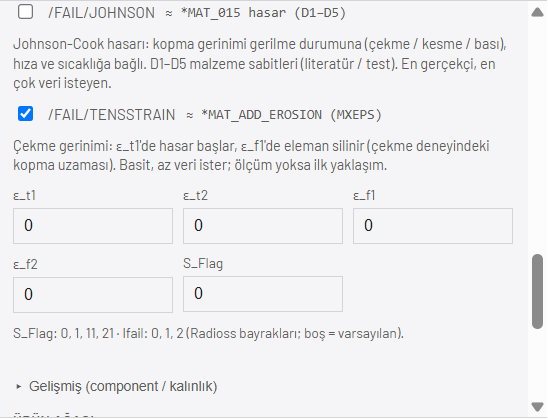
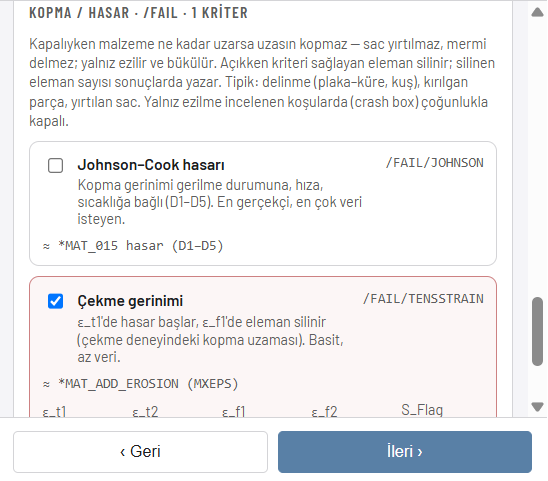
style(ui): crash malzeme davranışı (LAW2) ve /FAIL Uzman düzeninde — Akma ve pekleşme / Hız etkisi / Sıcaklık / Basit kopma bölümleri, formüller, birimli hizalı alanlar, hız-sıcaklık artık gizli değil; /FAIL kart kutuları; Belgeler görselleri güncellendi

diff --git a/frontend/src/components/CrashMaterialCard.tsx b/frontend/src/components/CrashMaterialCard.tsx
@@ -237,19 +237,30 @@ export default function CrashMaterialCard({
       <input value={value[key]} disabled={disabled} onChange={(e) => set({ [key]: e.target.value })} />
     </label>
   );
-  const failField = <R extends FailJohnsonRow | FailTensRow>(
+  /** Uzman düzeni alanı: kısa etiket + birim; erişilebilir ad eski etiket (testler / ekran okuyucu). */
+  const xf = (key: ScalarKey, aria: string, label: string, unit?: string, placeholder = "boş") => (
+    <label className="crash-expert-field" key={key}>
+      <span>{label}</span>
+      <span className="crash-card-input">
+        <input aria-label={aria} value={value[key]} placeholder={placeholder} disabled={disabled} onChange={(e) => set({ [key]: e.target.value })} />
+        {unit && <span className="crash-card-unit">{unit}</span>}
+      </span>
+    </label>
+  );
+  const xfail = <R extends FailJohnsonRow | FailTensRow>(
     row: R,
     key: keyof R & string,
+    aria: string,
     label: string,
     apply: (next: R) => void,
+    unit?: string,
   ) => (
-    <label className="mesh-field">
+    <label className="crash-expert-field" key={key}>
       <span>{label}</span>
-      <input
-        value={row[key] as string}
-        disabled={disabled}
-        onChange={(e) => apply({ ...row, [key]: e.target.value })}
-      />
+      <span className="crash-card-input">
+        <input aria-label={aria} value={row[key] as string} placeholder="boş" disabled={disabled} onChange={(e) => apply({ ...row, [key]: e.target.value })} />
+        {unit && <span className="crash-card-unit">{unit}</span>}
+      </span>
     </label>
   );
   const law = value.law;
@@ -271,39 +282,53 @@ export default function CrashMaterialCard({
       <KwRef card={law === "elastic" ? "/MAT/LAW1" : law === "plastic" ? "/MAT/LAW2" : "/MAT/LAW36"} />
 
       {law === "plastic" && (
-        <>
-          <div className="mesh-grid">
-            {field("sigmaY", "σy (Pa) — boşsa atanan malzeme")}
-            {field("hardenB", "LAW2 b (MPa)")}
-            {field("hardenN", "LAW2 n")}
-            {field("epsPMax", "EPS_p_max")}
-            {field("sigMax0", "SIG_max0 (MPa)")}
-          </div>
+        <div className="crash-law-sections">
+          <p className="crash-expert-title">Akma ve pekleşme <span className="crash-formula">σ = a + b·εₚⁿ</span></p>
           <p className="crash-behavior-hint">
-            σy: akma gerilmesi (boşsa kütüphane malzemesinin Rp0.2'si). b, n: pekleşme — b büyüdükçe
-            ezildikçe daha çok sertleşir. EPS_p_max: bu plastik gerinime ulaşan eleman silinir (boş = kapalı;
-            basit bir kopma sınırı). SIG_max0: gerilme tavanı (boş = yok).
+            a = akma (boşsa kütüphane malzemesinin Rp0.2'si); b, n pekleşme — b büyüdükçe ezildikçe daha çok
+            sertleşir. SIG_max0: gerilme tavanı (boş = yok).
           </p>
-          <details className="crash-mat-section">
-            <summary>Hız / sıcaklık etkisi — Johnson-Cook (boş = yok)</summary>
-            <p className="crash-behavior-hint">
-              Metaller hızlı yüklemede sertleşir: c hız katsayısı, ε̇₀ referans hız; m ve sıcaklıklar ısınma
-              ile yumuşamayı verir. Değerler malzemeye özgü, literatürden (ör. Johnson-Cook tabloları).
-            </p>
-            <div className="mesh-grid">
-              {field("jcC", "c")}
-              {field("jcEps0", "ε̇₀ (1/s)")}
-              {field("jcIcc", "ICC")}
-              {field("jcFsmooth", "Fsmooth")}
-              {field("jcFcut", "F_cut (Hz)")}
-              {field("jcChard", "Chard")}
-              {field("jcM", "m")}
-              {field("jcTmelt", "T_melt (K)")}
-              {field("jcRhoCp", "ρCp (J/m³K)")}
-              {field("jcTr", "T_r (K)")}
-            </div>
-          </details>
-        </>
+          <div className="crash-expert-grid cols-2">
+            {xf("sigmaY", "σy (Pa) — boşsa atanan malzeme", "a · akma σy", "Pa", "kütüphane")}
+            {xf("sigMax0", "SIG_max0 (MPa)", "SIG_max0 · tavan", "MPa")}
+            {xf("hardenB", "LAW2 b (MPa)", "b · pekleşme", "MPa")}
+            {xf("hardenN", "LAW2 n", "n · üs")}
+          </div>
+
+          <p className="crash-expert-title">Hız etkisi <span className="crash-formula">σ·(1 + c·ln(ε̇/ε̇₀))</span></p>
+          <p className="crash-behavior-hint">
+            Metaller hızlı yüklemede sertleşir: σ × (1 + c·ln(ε̇/ε̇₀)). c = 0 → hız etkisi yok. Fsmooth / F_cut
+            şekil değiştirme hızını süzer.
+          </p>
+          <div className="crash-expert-grid cols-3">
+            {xf("jcC", "c", "c · hız katsayısı")}
+            {xf("jcEps0", "ε̇₀ (1/s)", "ε̇₀ · referans", "1/s")}
+            {xf("jcIcc", "ICC", "ICC")}
+            {xf("jcFsmooth", "Fsmooth", "Fsmooth")}
+            {xf("jcFcut", "F_cut (Hz)", "F_cut", "Hz")}
+            {xf("jcChard", "Chard", "Chard")}
+          </div>
+
+          <p className="crash-expert-title">Sıcaklık etkisi</p>
+          <p className="crash-behavior-hint">
+            Plastik iş ısıya döner, malzeme yumuşar: m üssü, erime ve referans sıcaklığı, ρ·Cp. Boş = sıcaklık
+            etkisi yok.
+          </p>
+          <div className="crash-expert-grid cols-2">
+            {xf("jcM", "m", "m · yumuşama üssü")}
+            {xf("jcTmelt", "T_melt (K)", "T_melt · erime", "K")}
+            {xf("jcTr", "T_r (K)", "T_r · referans", "K")}
+            {xf("jcRhoCp", "ρCp (J/m³K)", "ρ·Cp", "J/m³K")}
+          </div>
+
+          <p className="crash-expert-title">Basit kopma sınırı</p>
+          <p className="crash-behavior-hint">
+            Bu plastik gerinime ulaşan eleman silinir (boş = kapalı). Daha ayrıntılı kopma için aşağıdaki /FAIL kartları.
+          </p>
+          <div className="crash-expert-grid cols-2">
+            {xf("epsPMax", "EPS_p_max", "EPS_p_max · kopma gerinimi")}
+          </div>
+        </div>
       )}
 
       {law === "tabulated" && (
@@ -386,74 +411,76 @@ export default function CrashMaterialCard({
         </>
       )}
 
-      <details className="crash-mat-section" open={failCount > 0 || undefined}>
-        <summary>
-          Kopma / hasar — /FAIL{failCount > 0 ? ` · ${failCount} kriter` : " · kapalı"}
-        </summary>
+      <div className="crash-law-sections">
+        <p className="crash-expert-title">
+          Kopma / hasar · /FAIL{failCount > 0 ? ` · ${failCount} kriter` : " · kapalı"}
+        </p>
         <p className="crash-behavior-hint" data-testid="crash-fail-intro">
-          Kapalıyken malzeme ne kadar uzarsa uzasın kopmaz — sac yırtılmaz, cam kırılmaz, mermi delmez;
-          yalnız ezilir ve bükülür. Açıkken seçilen kriter sağlanan eleman modelden silinir: yırtılma,
-          delinme, kırılma görünür, silinen eleman sayısı sonuçlarda yazar.
+          Kapalıyken malzeme ne kadar uzarsa uzasın kopmaz — sac yırtılmaz, mermi delmez; yalnız ezilir ve
+          bükülür. Açıkken kriteri sağlayan eleman silinir; silinen eleman sayısı sonuçlarda yazar. Tipik:
+          delinme (plaka–küre, kuş), kırılgan parça, yırtılan sac. Yalnız ezilme incelenen koşularda (crash box)
+          çoğunlukla kapalı.
         </p>
-        <p className="crash-behavior-hint">
-          Tipik kullanım: delinme / penetrasyon (plaka–küre, mermi, kuş çarpması), kırılgan parça (cam,
-          döküm), yırtılan sac, kopan bağlantı. Yalnız ezilme / katlanma incelenen koşularda (ör. crash
-          box) çoğunlukla kapalı tutulur.
-        </p>
-        <label className="material-check">
-          <input
-            type="checkbox"
-            checked={j != null}
-            disabled={disabled}
-            onChange={(e) => set({ failJohnson: e.target.checked ? { ...JOHNSON_DEFAULT } : null })}
-          />
-          /FAIL/JOHNSON
+        <div className={j ? "crash-fail-tile active" : "crash-fail-tile"}>
+          <label className="crash-fail-head">
+            <input
+              type="checkbox"
+              aria-label="/FAIL/JOHNSON"
+              checked={j != null}
+              disabled={disabled}
+              onChange={(e) => set({ failJohnson: e.target.checked ? { ...JOHNSON_DEFAULT } : null })}
+            />
+            <span className="crash-fail-text">
+              <strong>Johnson–Cook hasarı</strong>
+              <span>Kopma gerinimi gerilme durumuna, hıza, sıcaklığa bağlı (D1–D5). En gerçekçi, en çok veri isteyen.</span>
+            </span>
+            <code>/FAIL/JOHNSON</code>
+          </label>
           <KwRef card="/FAIL/JOHNSON" />
-        </label>
-        <p className="crash-behavior-hint">
-          Johnson-Cook hasarı: kopma gerinimi gerilme durumuna (çekme / kesme / bası), hıza ve sıcaklığa
-          bağlı. D1–D5 malzeme sabitleri (literatür / test). En gerçekçi, en çok veri isteyen.
-        </p>
-        {j && (
-          <div className="mesh-grid">
-            {(["d1", "d2", "d3", "d4", "d5"] as const).map((k) => (
-              <Fragment key={k}>
-                {failField(j, k, k.toUpperCase(), (n) => set({ failJohnson: n }))}
-              </Fragment>
-            ))}
-            {failField(j, "eps0", "ε̇₀ (1/s)", (n) => set({ failJohnson: n }))}
-            {failField(j, "ifailSh", "Ifail_sh", (n) => set({ failJohnson: n }))}
-            {failField(j, "ifailSo", "Ifail_so", (n) => set({ failJohnson: n }))}
-            {failField(j, "dadv", "Dadv", (n) => set({ failJohnson: n }))}
-          </div>
-        )}
-        <label className="material-check">
-          <input
-            type="checkbox"
-            checked={t != null}
-            disabled={disabled}
-            onChange={(e) => set({ failTens: e.target.checked ? { ...TENS_DEFAULT } : null })}
-          />
-          /FAIL/TENSSTRAIN
+          {j && (
+            <div className="crash-expert-grid cols-5">
+              {(["d1", "d2", "d3", "d4", "d5"] as const).map((k) => (
+                <Fragment key={k}>{xfail(j, k, k.toUpperCase(), k.toUpperCase(), (n) => set({ failJohnson: n }))}</Fragment>
+              ))}
+            </div>
+          )}
+          {j && (
+            <div className="crash-expert-grid cols-4">
+              {xfail(j, "eps0", "ε̇₀ (1/s)", "ε̇₀", (n) => set({ failJohnson: n }), "1/s")}
+              {xfail(j, "ifailSh", "Ifail_sh", "Ifail_sh", (n) => set({ failJohnson: n }))}
+              {xfail(j, "ifailSo", "Ifail_so", "Ifail_so", (n) => set({ failJohnson: n }))}
+              {xfail(j, "dadv", "Dadv", "Dadv", (n) => set({ failJohnson: n }))}
+            </div>
+          )}
+        </div>
+        <div className={t ? "crash-fail-tile active" : "crash-fail-tile"}>
+          <label className="crash-fail-head">
+            <input
+              type="checkbox"
+              aria-label="/FAIL/TENSSTRAIN"
+              checked={t != null}
+              disabled={disabled}
+              onChange={(e) => set({ failTens: e.target.checked ? { ...TENS_DEFAULT } : null })}
+            />
+            <span className="crash-fail-text">
+              <strong>Çekme gerinimi</strong>
+              <span>ε_t1'de hasar başlar, ε_f1'de eleman silinir (çekme deneyindeki kopma uzaması). Basit, az veri.</span>
+            </span>
+            <code>/FAIL/TENSSTRAIN</code>
+          </label>
           <KwRef card="/FAIL/TENSSTRAIN" />
-        </label>
-        <p className="crash-behavior-hint">
-          Çekme gerinimi: ε_t1'de hasar başlar, ε_f1'de eleman silinir (çekme deneyindeki kopma uzaması).
-          Basit, az veri ister; ölçüm yoksa ilk yaklaşım.
-        </p>
-        {t && (
-          <div className="mesh-grid">
-            {failField(t, "t1", "ε_t1", (n) => set({ failTens: n }))}
-            {failField(t, "t2", "ε_t2", (n) => set({ failTens: n }))}
-            {failField(t, "f1", "ε_f1", (n) => set({ failTens: n }))}
-            {failField(t, "f2", "ε_f2", (n) => set({ failTens: n }))}
-            {failField(t, "sflag", "S_Flag", (n) => set({ failTens: n }))}
-          </div>
-        )}
-        <p className="material-assign-hint">
-          S_Flag: 0, 1, 11, 21 · Ifail: 0, 1, 2 (Radioss bayrakları; boş = varsayılan).
-        </p>
-      </details>
+          {t && (
+            <div className="crash-expert-grid cols-5">
+              {xfail(t, "t1", "ε_t1", "ε_t1", (n) => set({ failTens: n }))}
+              {xfail(t, "t2", "ε_t2", "ε_t2", (n) => set({ failTens: n }))}
+              {xfail(t, "f1", "ε_f1", "ε_f1", (n) => set({ failTens: n }))}
+              {xfail(t, "f2", "ε_f2", "ε_f2", (n) => set({ failTens: n }))}
+              {xfail(t, "sflag", "S_Flag", "S_Flag", (n) => set({ failTens: n }))}
+            </div>
+          )}
+        </div>
+        <p className="material-assign-hint">S_Flag: 0, 1, 11, 21 · Ifail: 0, 1, 2 (Radioss bayrakları; boş = varsayılan).</p>
+      </div>
     </div>
   );
 }

diff --git a/frontend/src/index.css b/frontend/src/index.css
@@ -8251,3 +8251,83 @@ p {
   border: 1px solid var(--border);
   border-radius: 6px;
 }
+
+/* LAW2 / FAIL — Uzman düzeni */
+.crash-law-sections {
+  display: flex;
+  flex-direction: column;
+  gap: 8px;
+  margin-top: 6px;
+}
+
+.crash-expert-grid.cols-5 {
+  grid-template-columns: repeat(5, minmax(0, 1fr));
+}
+
+.crash-fail-tile {
+  display: flex;
+  flex-direction: column;
+  gap: 8px;
+  padding: 10px;
+  background: var(--surface);
+  border: 1px solid var(--border);
+  border-radius: 8px;
+}
+
+.crash-fail-tile.active {
+  border: 1.5px solid color-mix(in srgb, #c94a4a 60%, var(--border));
+  background: color-mix(in srgb, #c94a4a 5%, var(--surface));
+}
+
+.crash-fail-head {
+  display: flex;
+  align-items: flex-start;
+  gap: 8px;
+  cursor: pointer;
+}
+
+.crash-fail-head input {
+  margin-top: 3px;
+}
+
+.crash-fail-text {
+  display: flex;
+  flex: 1;
+  flex-direction: column;
+  gap: 2px;
+  font-size: 12.5px;
+}
+
+.crash-fail-text span {
+  font-size: 11.5px;
+  color: var(--muted);
+}
+
+.crash-fail-head code {
+  font-size: 11px;
+  color: var(--muted);
+}
+
+.crash-formula {
+  margin-left: 6px;
+  font-family: "IBM Plex Mono", ui-monospace, monospace;
+  font-size: 11.5px;
+  font-weight: 400;
+  letter-spacing: 0;
+  text-transform: none;
+}
+
+.crash-expert-field .crash-card-input {
+  height: 34px;
+  min-width: 0;
+}
+
+.crash-expert-field .crash-card-input input {
+  flex: 1;
+  min-width: 0;
+  height: 100%;
+  padding: 0 8px;
+  background: none;
+  border: none;
+  border-radius: 6px;
+}

diff --git a/frontend/src/components/CrashMaterialSection.tsx b/frontend/src/components/CrashMaterialSection.tsx
@@ -39,13 +39,17 @@ export default function CrashMaterialSection({
 }) {
   return (
     <section className="crash-mat-section-wrap" aria-label="Crash malzeme modeli">
-      <p className="material-assignments-title">
-        {Object.keys(partCards).length > 0 ? "Crash malzeme modeli — ortak" : "Crash malzeme modeli"}
-      </p>
-      <p className="crash-behavior-hint">
-        Yukarıdaki kütüphane malzemesi E, ν, ρ ve akma gerilmesini verir. Burada çarpışmada malzemenin
-        nasıl davranacağı seçilir: akınca ne olur, kopar mı.
-      </p>
+      {!hideToggle && (
+        <>
+        <p className="material-assignments-title">
+          {Object.keys(partCards).length > 0 ? "Crash malzeme modeli — ortak" : "Crash malzeme modeli"}
+        </p>
+        <p className="crash-behavior-hint">
+          Yukarıdaki kütüphane malzemesi E, ν, ρ ve akma gerilmesini verir. Burada çarpışmada malzemenin
+          nasıl davranacağı seçilir: akınca ne olur, kopar mı.
+        </p>
+          </>
+      )}
       {!hideToggle && <DynaToggle />}
       {partIds.length > 1 && (
         <div className="crash-mat-toggles">

diff --git a/frontend/src/docs/crashDoc.ts b/frontend/src/docs/crashDoc.ts
@@ -178,8 +178,8 @@ export const CRASH_DOC: DocSection[] = [
       { name: "Parça başına model", what: "Çok parçalı modelde her parçaya ayrı kart (ör. küre LAW1, plaka LAW2)." },
     ],
     gallery: [
-      { src: IMG("08-malzeme.png"), caption: "3 Davranış ve kopma: LAW seçimi, açıklaması ve LS-DYNA karşılığı." },
-      { src: IMG("09-fail.png"), caption: "/FAIL kartları ve alanları." },
+      { src: IMG("08-malzeme.png"), caption: "3 Davranış ve kopma · LAW2: akma ve pekleşme (σ = a + b·εₚⁿ), hız etkisi (Johnson–Cook), sıcaklık, basit kopma sınırı — birimli alanlar." },
+      { src: IMG("09-fail.png"), caption: "Kopma / hasar: Johnson–Cook ve çekme gerinimi kartları; açık kart kırmızı çerçeveli, alanları altında." },
     ],
   },
   {
